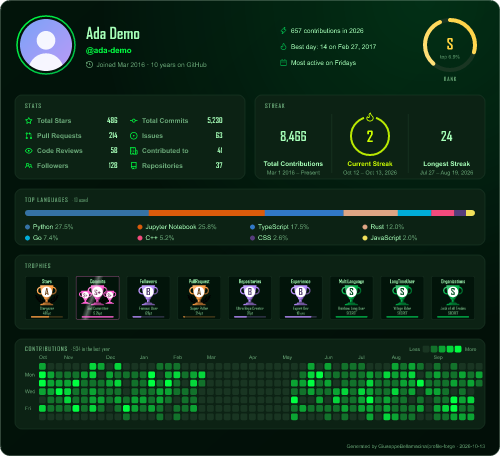
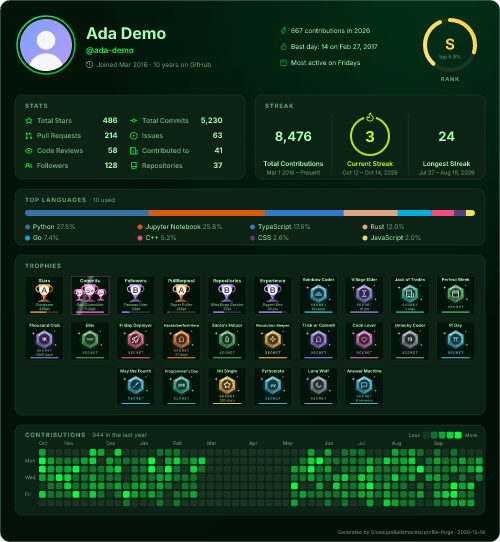
docs: matrix preset first in the presets, README and guide updated for the new trophies

diff --git a/README.md b/README.md
@@ -10,7 +10,7 @@
 ![Themes](https://img.shields.io/badge/themes-47-8b5cf6)
 ![Locales](https://img.shields.io/badge/languages-8-f59e0b)
 
-[**Web configurator**](https://giuseppebellamacina.github.io/profile-forge-configurator/) · [**Quick start**](#quick-start-github-action) · [**Full guide**](GUIDE.md) · [**Presets**](presets) · [**Themes**](docs/themes)
+[**Web configurator**](https://giuseppebellamacina.github.io/profile-forge-configurator/) · [**Quick start**](#quick-start-github-action) · [**Full guide**](GUIDE.md) · [**Presets**](presets) · [**Trophies**](TROPHIES.md) · [**Themes**](docs/themes)
 
 <picture>
   <source media="(prefers-color-scheme: dark)" srcset="docs/profile-forge-dark.svg">
@@ -181,9 +181,13 @@ Put a `config.json` at the root of your profile repo and the action picks it up 
 > [!NOTE]
 > Every preset is a plain `config.json`: copy it, change what you like, done.
 
-Copy one of the [`presets/`](presets) to `config.json` and tweak it: `minimal`, `dashboard`, `terminal`, `pastel-it`, `trophy-case`, `cyberpunk`, `portfolio`, `streak-focus`, `open-source`. Previews and details are in the [guide](GUIDE.md#presets).
+Copy one of the [`presets/`](presets) to `config.json` and tweak it: `matrix`, `minimal`, `dashboard`, `terminal`, `pastel-it`, `trophy-case`, `cyberpunk`, `portfolio`, `streak-focus`, `open-source`. Previews and details are in the [guide](GUIDE.md#presets).
 
 <table>
+<tr>
+<td><img src="docs/presets/matrix-dark.png" alt="matrix preset, dark"></td>
+<td><img src="docs/presets/matrix-light.png" alt="matrix preset, light"></td>
+</tr>
 <tr>
 <td><img src="docs/presets/dashboard-dark.png" alt="dashboard preset"></td>
 <td><img src="docs/presets/cyberpunk-dark.png" alt="cyberpunk preset"></td>
@@ -231,7 +235,7 @@ Names follow the three projects the card is built on. A `—` means the original
 | stats | `hide`, `show`, `icons`, `numberFormat`, `numberPrecision`, `textBold`, `lineHeight`, `title`, `commitsYear`, `excludeRepos` | `hide`, `show`, `show_icons`, `number_format`, `number_precision`, `text_bold`, `line_height`, `custom_title`, `commits_year`, `exclude_repo` | `show` adds `prsMerged`, `prsMergedPercentage`, `discussionsStarted`, `discussionsAnswered` (extra GraphQL calls, only when requested) |
 | streak | `hide`, `mode`, `excludeDays`, `startingYear`, `dateFormat`, `shortNumbers`, `excludeDaysLabel`, `title` | `hide_*_streak`, `mode`, `exclude_days`, `starting_year`, `date_format`, `short_numbers` | `weekly` counts Sunday–Saturday weeks; excluded days neither extend nor break a streak; `[...]` in `dateFormat` is hidden for the current year |
 | languages | `layout`, `count`, `hide`, `excludeRepos`, `hideProgress`, `statsFormat`, `sizeWeight`, `countWeight`, `title` | `layout`, `langs_count`, `hide`, `exclude_repo`, `hide_progress`, `stats_format`, `size_weight`, `count_weight` | `bar` `compact` `donut` `donut-vertical` `pie`; `bytes` shows sizes instead of percentages; score = `bytes^sizeWeight × repos^countWeight` |
-| trophies | `titles`, `hideTitles`, `ranks`, `hideRanks`, `columns`, `rows`, `marginW`, `marginH`, `padding`, `align`, `parts`, `noBg`, `noFrame`, `extra`, `title` | `title`, `rank`, `column`, `row`, `margin-w`, `margin-h`, `no-bg`, `no-frame` | titles accept the originals' aliases (`Star`, `Commit`, `PR`, `Repo`, `Review`, `Duration`, `Orgs`…); `-C` drops a rank, `SECRET` selects secret trophies; `extra` adds the `Issues` and `Reviews` trophies; `birthday` (`MM-DD`) sets the day of the Happy Birthday trophy |
+| trophies | `titles`, `hideTitles`, `ranks`, `hideRanks`, `columns`, `rows`, `marginW`, `marginH`, `padding`, `align`, `parts`, `noBg`, `noFrame`, `extra`, `birthday`, `title` | `title`, `rank`, `column`, `row`, `margin-w`, `margin-h`, `no-bg`, `no-frame` | titles accept the originals' aliases (`Star`, `Commit`, `PR`, `Repo`, `Review`, `Duration`, `Orgs`…); `-C` drops a rank, `SECRET` selects secret trophies; `extra` adds the `Issues` and `Reviews` trophies; `birthday` (`MM-DD`) sets the day of the Happy Birthday trophy |
 | heatmap | `mode`, `snakePath`, `weeks`, `cell`, `weekStart`, `legend`, `monthLabels` | — | `grid` or `snake` (routes `smart` `busy` `nearest` `sweep` `rows` `spiral`); cells `square` `round` `triangle` `snowflake` `moon` `mixed`; grid size, Monday start, legend and month labels |
 | root | `locale`, `timezone`, `customThemes`, `layout`, `colorsByTheme` | `locale`, `timezone`, `theme` | `locale` translates labels, months and weekdays |
 
@@ -329,12 +333,13 @@ npm test     # node:test, zero deps
 src/config.js   config.json schema: defaults, validation, normalization
 src/themes.js   built-in themes, color overrides, custom themes
 src/i18n.js     label dictionaries (en it es fr de pt-br ja zh)
-src/github.js   GraphQL fetching (profile, repos, per-year calendars)
-src/stats.js    rank, languages, streak, trophies (pure functions)
+src/github.js   GraphQL fetching (profile, repos, per-year calendars) and the friend check
+src/stats.js    rank, languages, streak, level trophies (pure functions)
+src/secrets.js  the 66 secret trophies: facts from the calendar and profile, glyphs, tones
 src/render.js   SVG renderer + themes + animation timeline
 src/export.js   PNG/GIF export (optional deps)
 src/cli.js      CLI entry point (used by action.yml)
-scripts/        demo.js (render a config with demo data), gen-docs.js (regenerate docs/guide + docs/presets)
+scripts/        demo.js (render a config with demo data), gen-docs.js (regenerate docs/guide + docs/presets), gen-trophy-guide.js (writes TROPHIES.md)
 fonts/          Inter + Space Grotesk (OFL), embedded into the SVG as data URIs
 ```
 

diff --git a/GUIDE.md b/GUIDE.md
@@ -49,11 +49,12 @@ Precedence: **action inputs / CLI flags › `config.json` › defaults**. Any ke
 Ready-to-use configs live in [`presets/`](presets). Copy one to `config.json` in your profile repo and edit from there. Each one defines a `dark` and a `light` slot, so the README `<picture>` snippet never changes.
 
 ```bash
-curl -o config.json https://raw.githubusercontent.com/GiuseppeBellamacina/profile-forge/main/presets/dashboard.json
+curl -o config.json https://raw.githubusercontent.com/GiuseppeBellamacina/profile-forge/main/presets/matrix.json
 ```
 
 | Preset | Idea |
 |---|---|
+| [`matrix`](presets/matrix.json) | Green rain on black: the `matrix` theme with a custom light twin, grid background, glitch avatar frame, `> stats` titles |
 | [`minimal`](presets/minimal.json) | Small and quiet: no border, no glow, a few numbers |
 | [`dashboard`](presets/dashboard.json) | Dracula / Gruvbox, donut languages, trophies, round heatmap |
 | [`terminal`](presets/terminal.json) | Green-on-black hacker look, grid background, `$ stats` titles |
@@ -63,6 +64,8 @@ curl -o config.json https://raw.githubusercontent.com/GiuseppeBellamacina/profil
 | [`portfolio`](presets/portfolio.json) | Replaces your whole README: about, projects, links, tech stack |
 | [`streak-focus`](presets/streak-focus.json) | Consistency view: streaks, weekdays only, heatmap |
 | [`open-source`](presets/open-source.json) | Merged PRs, discussions, weighted languages, selected trophies |
+
+<p align="center"><b>matrix</b><br><img src="docs/presets/matrix-dark.png" width="70%"></p>
 
 <table>
 <tr>
@@ -83,9 +86,9 @@ curl -o config.json https://raw.githubusercontent.com/GiuseppeBellamacina/profil
 </tr>
 </table>
 
-**portfolio** (full README replacement) and the light variants:
+**portfolio** (full README replacement) and the light twin of **matrix**:
 
-<img src="docs/presets/portfolio-dark.png" width="60%"> <img src="docs/presets/cyberpunk-light.png" width="38%">
+<img src="docs/presets/portfolio-dark.png" width="60%"> <img src="docs/presets/matrix-light.png" width="38%">
 
 The `portfolio` preset reads its tech stack icons from `assets/img/` (paths are relative to `config.json`). The icons are in [`presets/assets/img/`](presets/assets/img); copy them next to your config. Replace the placeholder text, URLs and `your-login`.
 
@@ -700,9 +703,10 @@ Not ported from the original projects: `card_width` / `card_height` (the card is
 
 ```bash
 npm install                 # resvg, used for the PNGs
-node scripts/gen-docs.js    # all of docs/guide/ and docs/presets/
+node scripts/gen-docs.js    # all of docs/guide/ and docs/presets/, and TROPHIES.md
 node scripts/gen-docs.js dashboard stats-short   # only some
-node scripts/demo.js presets/dashboard.json out/dashboard --scale 2   # any config, demo data
+node scripts/demo.js presets/matrix.json out/matrix --scale 2   # any config, demo data
+node scripts/demo.js presets/matrix.json out/gems --slot dark --secrets all   # every secret trophy, made-up values
 ```
 
 `scripts/demo.js` renders a config with fixed demo data, so you can try a config without a token. Output is `<prefix>-<slot>.png` (or `<prefix>.png` with `--slot dark`); add `--svg` for the animated SVG.

diff --git a/presets/README.md b/presets/README.md
@@ -3,13 +3,14 @@
 Ready-to-use `config.json` files. Copy one to the root of your profile repo as `config.json` and edit it.
 
 ```bash
-curl -o config.json https://raw.githubusercontent.com/GiuseppeBellamacina/profile-forge/main/presets/dashboard.json
+curl -o config.json https://raw.githubusercontent.com/GiuseppeBellamacina/profile-forge/main/presets/matrix.json
 ```
 
 Every preset defines a `dark` and a `light` slot, so the README `<picture>` snippet stays the same. All options are explained in the [configuration guide](../GUIDE.md). Previews use demo data.
 
 | Preset | Idea |
 |---|---|
+| [`matrix`](matrix.json) | Green rain on black: the `matrix` theme with a custom light twin, grid background, glitch avatar frame, `> stats` titles |
 | [`minimal`](minimal.json) | Small and quiet: no border, no glow, a few numbers |
 | [`dashboard`](dashboard.json) | Dracula / Gruvbox, donut languages, trophies, round heatmap |
 | [`terminal`](terminal.json) | Green-on-black hacker look, grid background, `$ stats` titles |
@@ -21,6 +22,14 @@ Every preset defines a `dark` and a `light` slot, so the README `<picture>` snip
 | [`open-source`](open-source.json) | Merged PRs, discussions, weighted languages, selected trophies |
 
 `portfolio` reads its tech stack icons from `assets/img/` (relative to `config.json`): copy [`assets/img/`](assets/img) next to your config, and replace the placeholder text, URLs and `your-login`.
+
+## matrix
+
+[`matrix.json`](matrix.json)
+
+| Dark | Light |
+|---|---|
+| <img src="../docs/presets/matrix-dark.png"> | <img src="../docs/presets/matrix-light.png"> |
 
 ## minimal
 
